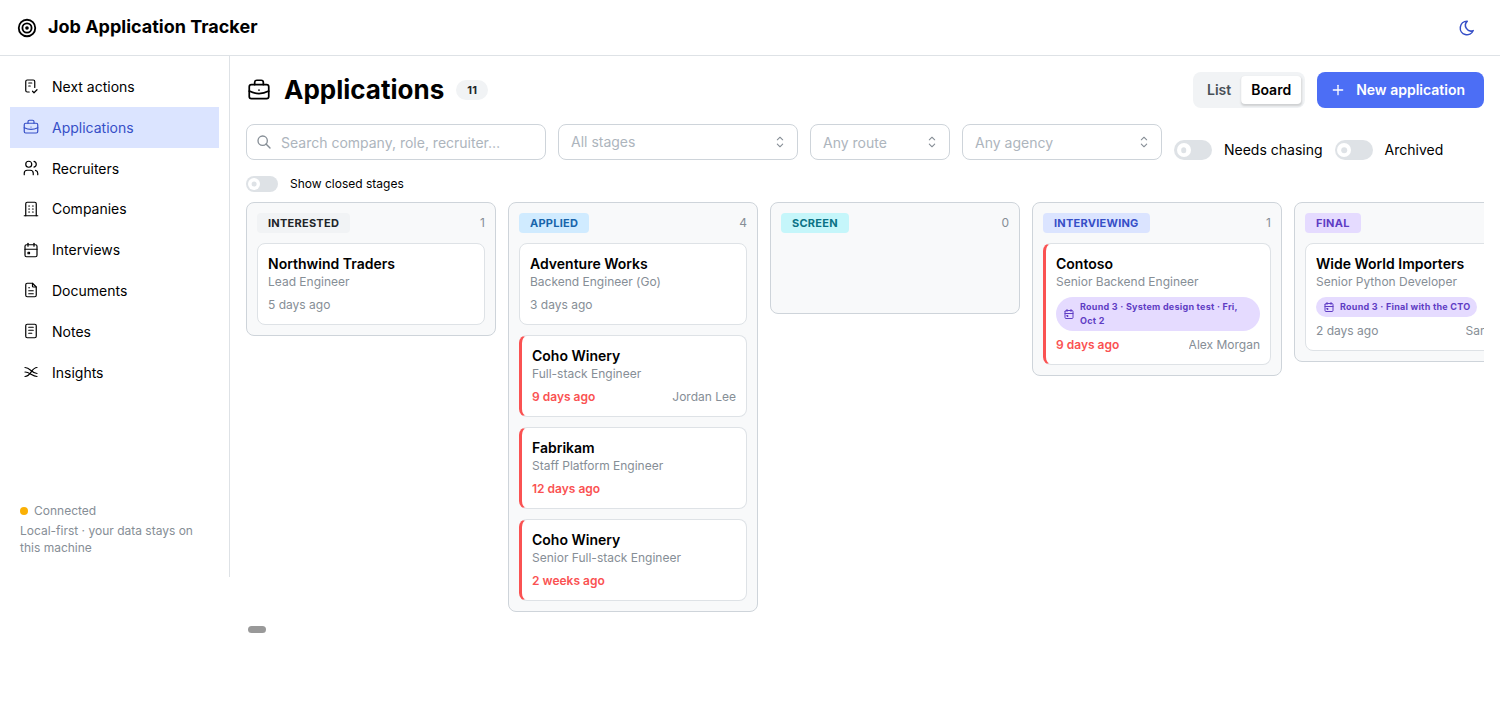
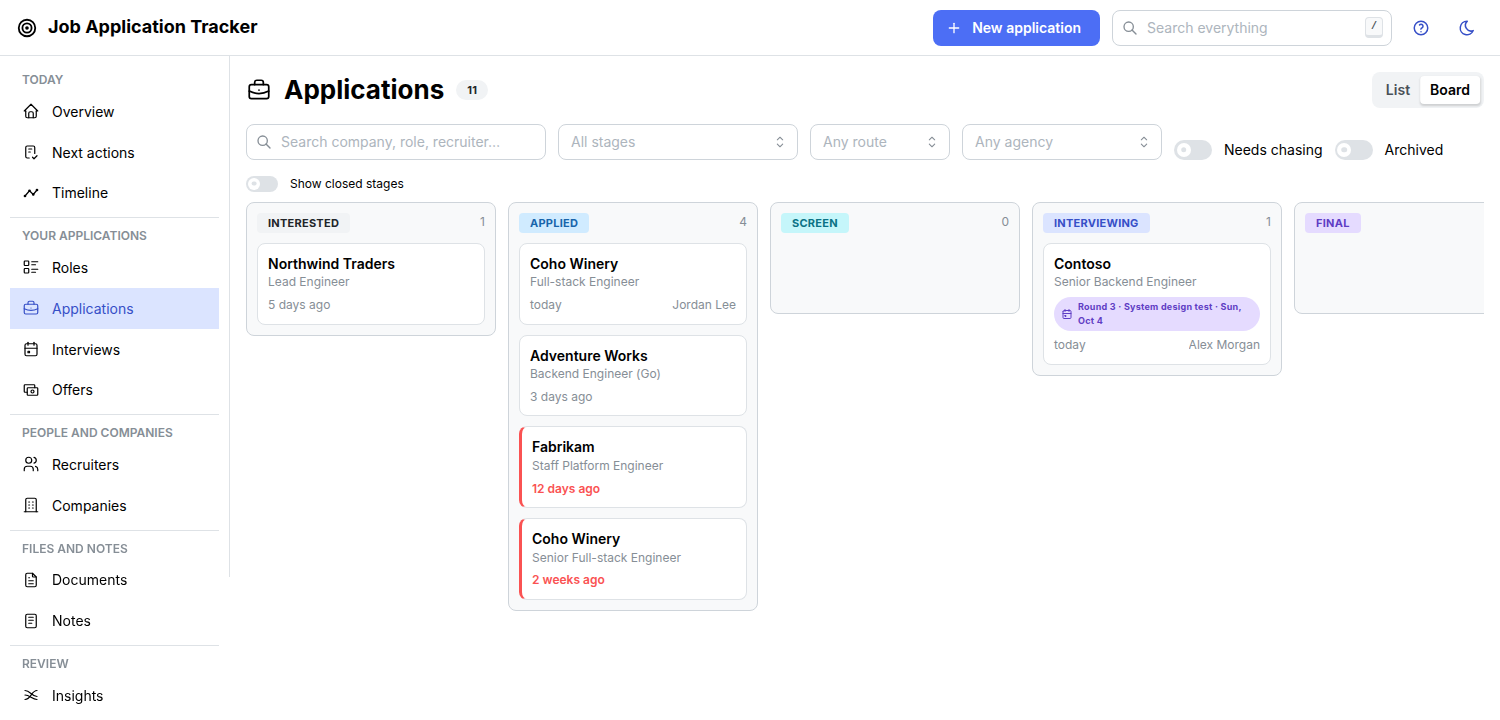
docs: new screenshots and demo GIF of the current app; fix contact card overflow
Every screenshot retaken from demo data with the grouped menu and new header, plus new ones: Overview, Timeline lanes, Roles and a person page with calls and roles. Contact cards no longer push their edit and delete buttons out when an email is long (long values end in an ellipsis, full value on hover); the Recruiters button says New person, as the guide does.

diff --git a/frontend/src/components/ContactCard.tsx b/frontend/src/components/ContactCard.tsx
@@ -26,7 +26,8 @@ export function ContactCard({ contact, onEdit }: { contact: Contact; onEdit?: ()
   return (
     <Card withBorder padding="sm">
       <Group justify="space-between" align="flex-start" wrap="nowrap">
-        <Stack gap={4}>
+        {/* minWidth 0 lets long emails wrap instead of pushing the buttons out of the card */}
+        <Stack gap={4} style={{ minWidth: 0, flex: 1 }}>
           <Anchor component={Link} to={`/people/${contact.id}`} fw={600} c="inherit">
             {contact.name}
           </Anchor>
@@ -39,19 +40,24 @@ export function ContactCard({ contact, onEdit }: { contact: Contact; onEdit?: ()
             const Icon = ICONS[d.kind as keyof typeof ICONS] ?? IconPoint;
             const link = href(d.kind, d.value);
             return (
-              <Group key={d.id} gap={6} wrap="nowrap">
-                <Icon size={14} stroke={1.6} />
-                {link ? (
-                  <Anchor
-                    href={link}
-                    size="sm"
-                    target={d.kind === "email" || d.kind === "phone" ? undefined : "_blank"}
-                  >
-                    {d.value}
-                  </Anchor>
-                ) : (
-                  <Text size="sm">{d.value}</Text>
-                )}
+              <Group key={d.id} gap={6} wrap="wrap" style={{ rowGap: 0 }}>
+                {/* The icon stays with the value; only the label moves down when it's tight. */}
+                <Group gap={6} wrap="nowrap" style={{ minWidth: 0 }}>
+                  <Icon size={14} stroke={1.6} style={{ flexShrink: 0 }} />
+                  {link ? (
+                    <Anchor
+                      href={link}
+                      size="sm"
+                      target={d.kind === "email" || d.kind === "phone" ? undefined : "_blank"}
+                      truncate="end"
+                    title={d.value}
+                    >
+                      {d.value}
+                    </Anchor>
+                  ) : (
+                    <Text size="sm">{d.value}</Text>
+                  )}
+                </Group>
                 {d.label && (
                   <Text size="xs" c="dimmed">
                     {d.label}
@@ -67,7 +73,7 @@ export function ContactCard({ contact, onEdit }: { contact: Contact; onEdit?: ()
           )}
         </Stack>
         {onEdit && (
-          <Group gap={2} wrap="nowrap">
+          <Group gap={2} wrap="nowrap" style={{ flexShrink: 0 }}>
             <Tooltip label="Edit">
               <ActionIcon variant="subtle" color="gray" onClick={onEdit} aria-label={`Edit ${contact.name}`}>
                 <IconPencil size={16} />
@@ -78,7 +84,7 @@ export function ContactCard({ contact, onEdit }: { contact: Contact; onEdit?: ()
               kind="contact"
               id={contact.id}
               name={contact.name}
-              confirm={`Delete ${contact.name}? They come off the applications and interviews they're on; the applications themselves stay.`}
+              confirm={`Delete ${contact.name}? They come off the applications and interviews they're on, and their calls are deleted; the applications themselves stay.`}
             />
           </Group>
         )}

diff --git a/frontend/src/pages/RecruitersPage.test.tsx b/frontend/src/pages/RecruitersPage.test.tsx
@@ -111,7 +111,7 @@ describe("recruiters", () => {
       "/api/v1/health": {},
     });
     renderAt("/recruiters");
-    fireEvent.click(await screen.findByRole("button", { name: "New contact" }));
+    fireEvent.click(await screen.findByRole("button", { name: "New person" }));
     const dialog = await screen.findByRole("dialog");
     fireEvent.change(within(dialog).getByLabelText("Name"), { target: { value: "New Person" } });
     fireEvent.change(within(dialog).getAllByLabelText("Value")[0]!, { target: { value: "new@example.com" } });
@@ -140,7 +140,7 @@ describe("recruiters", () => {
       "/api/v1/health": {},
     });
     renderAt("/recruiters");
-    fireEvent.click(await screen.findByRole("button", { name: "New contact" }));
+    fireEvent.click(await screen.findByRole("button", { name: "New person" }));
     const dialog = await screen.findByRole("dialog");
     fireEvent.change(within(dialog).getByLabelText("Name"), { target: { value: "X" } });
     fireEvent.change(within(dialog).getAllByLabelText("Value")[0]!, { target: { value: "not-an-email" } });

diff --git a/frontend/src/pages/RecruitersPage.tsx b/frontend/src/pages/RecruitersPage.tsx
@@ -111,7 +111,7 @@ export function RecruitersPage() {
             New agency
           </Button>
           <Button leftSection={<IconPlus size={16} />} onClick={() => setEditing(null)}>
-            New contact
+            New person
           </Button>
         </Group>
       </Group>
